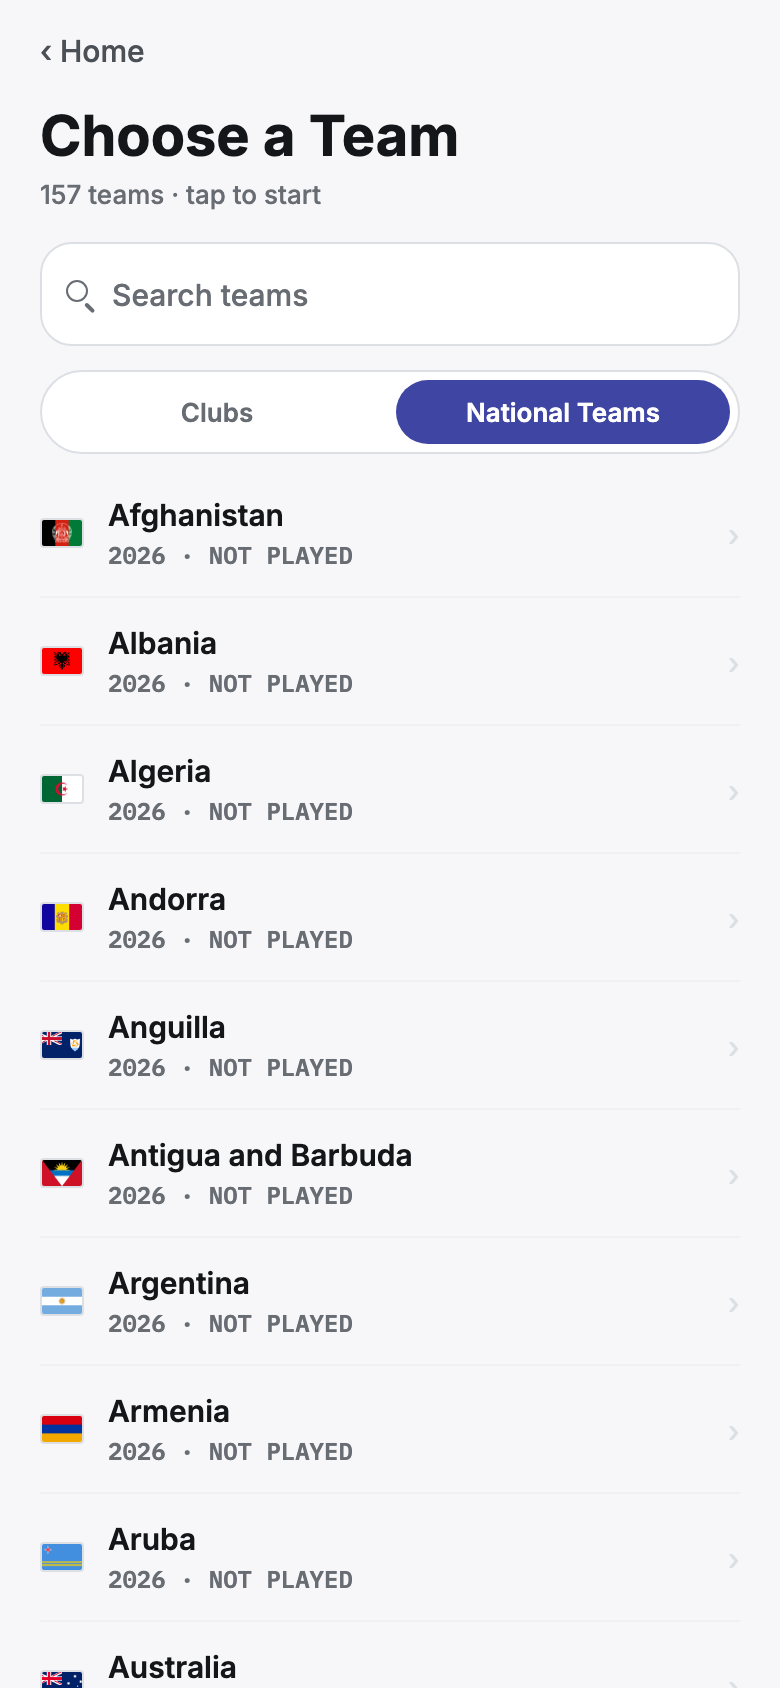
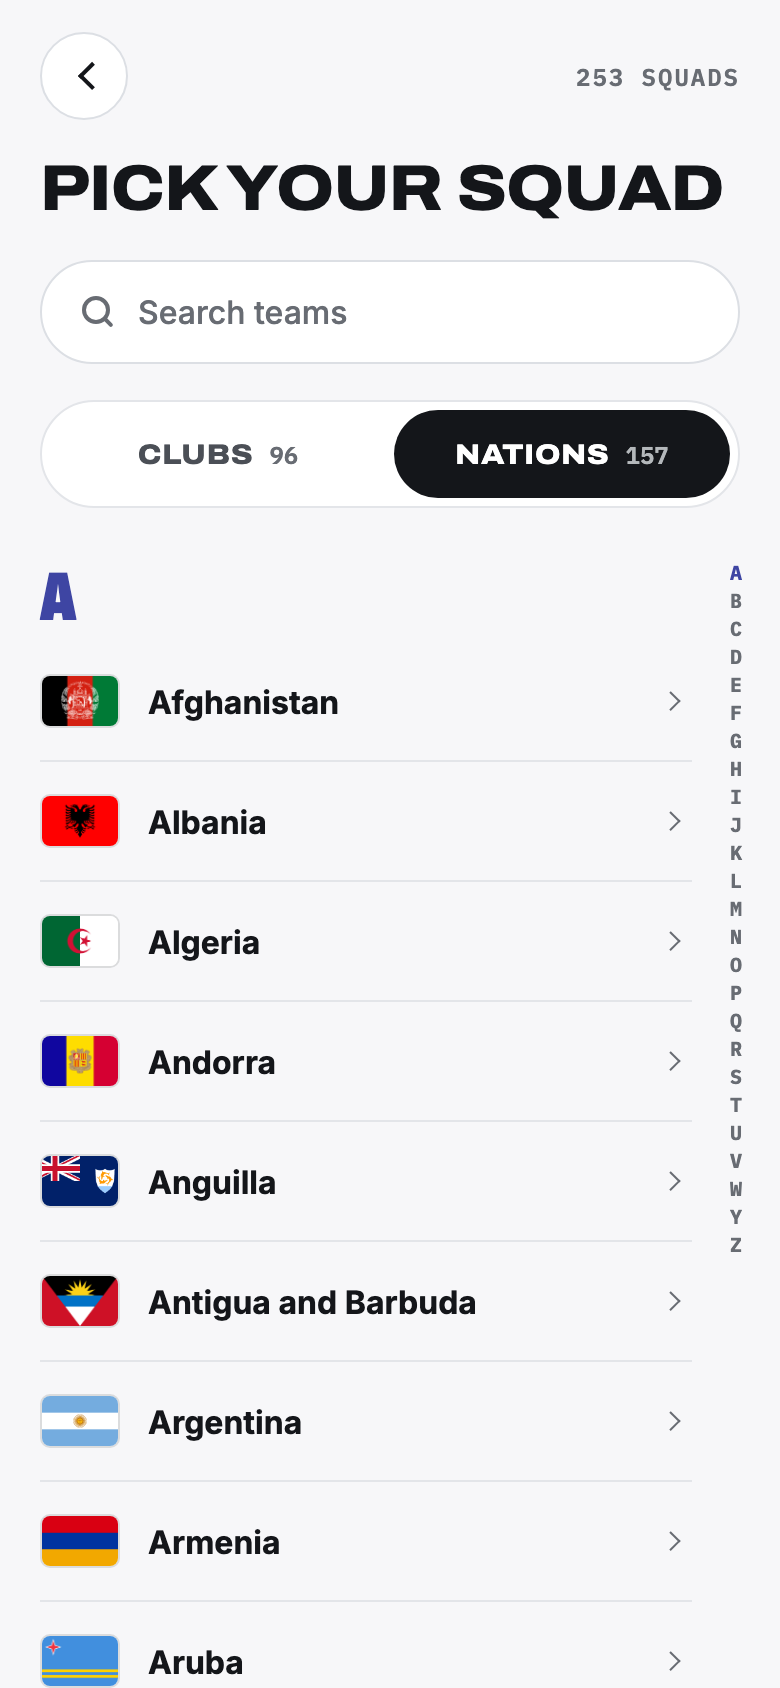
docs(picker): screens and docs for the redesigned team picker (#176)

diff --git a/theme/tokens.ts b/theme/tokens.ts
@@ -943,8 +943,9 @@ export const sizes = {
   // Plain colour dot for Home's "continue" card — a different, simpler
   // element than the team identity marker below.
   teamDot: 10,
-  // The small corner radius of a team's bands and flags (Study's banner strip,
-  // the in-round banner, a flag on an answer tile or a chip).
+  // The small corner radius of a team's bands and flags outside the picker
+  // (Study's banner strip, the in-round banner, and the inline flags on an
+  // answer tile, a chip, a player card and a Study row).
   teamMarkerRadius: 2,
   // The "banner" marker variant used mid-round (see TeamMarker's `variant`
   // prop): thinner and longer than the picker's marker, and always rendered

diff --git a/design/SCREENS.md b/design/SCREENS.md
@@ -92,45 +92,54 @@ deliberate constraint is distinguishable from an accident.
 Nine routes (the results route renders two distinct states, ordinary and
 flawless — see below). Route, file, and what it does.
 
-| #   | Route                             | File                                     | Purpose                                                                                                                                                                                                                                                                                                             |
-| --- | --------------------------------- | ---------------------------------------- | ------------------------------------------------------------------------------------------------------------------------------------------------------------------------------------------------------------------------------------------------------------------------------------------------------------------- |
-| 1   | `/`                               | `app/index.tsx`                          | Home. Centred, stacked wordmark lockup as the headline, continue-card for the last played team, Start Training. A gear at the top right opens Settings; Home has no About link, language chip or theme toggle.                                                                                                      |
-| 2   | `/about`                          | `app/about.tsx`                          | About. Legal/attribution copy, data and image credits, with a Licences row that opens the Licences page, and the privacy section (photos, usage statistics, updates). No switches and no version line: both are on Settings.                                                                                        |
-| 3   | `/team-picker`                    | `app/team-picker.tsx`                    | Team picker, segmented into Clubs and National Teams. Each row shows a mono sub-line — `LEVEL n · BEST n/10` or `NOT PLAYED`, green once cleared.                                                                                                                                                                   |
-| 4   | `/team/[squadId]/difficulty`      | `app/team/[squadId]/difficulty.tsx`      | The difficulty ladder in level order: the focused level expanded into a card with its description and a Play button, the other levels compact (locked ones stating their unlock condition), and Study, an outline button until level 1 is cleared and a text link after.                                            |
-| 5   | `/team/[squadId]/study`           | `app/team/[squadId]/study.tsx`           | Browsable squad: back, Hide names and a cards/list toggle; the team's banner, "Squad" and a count; position filters with counts; every player in shirt-number order as photo cards or a list. Hide names covers each name. Photo credits end the list.                                                              |
-| 6   | `/play/[squadId]/[level]`         | `app/play/[squadId]/[level]/index.tsx`   | A question. The photo (or the team's colours) fills the top; the shirt number with the escuadra corner, the slot chips that spell out the player, the prompt, a grid of answers and the footer sit in the thumb zone. A right answer moves on by itself; a miss waits.                                              |
-| 7   | `/play/[squadId]/[level]/results` | `app/play/[squadId]/[level]/results.tsx` | The round's result: close (a different team), the team and level, share; the score with the escuadra corner, the tier's title and verdict, the round strip; the missed players as snapping photo cards, or a 10/10's ten in circles; the actions; the share sheet.                                                  |
-| 8   | `/settings`                       | `app/settings.tsx`                       | Settings. Back and title, then Play (Language row opening the language sheet, Appearance as Match phone / Dark / Light, Vibration), Privacy (the usage-statistics switch), Support (Rate), Coming next (Exam mode, dashed) and About (About Escuadra, Privacy, Licences: each opens a page), over the version line. |
-| 9   | `/licences`                       | `app/licences.tsx`                       | Licences, opened from Settings or from About's credits. Back and title, a note that the texts stay in English, then the country names' Unicode notice (open), the fonts, and every bundled package, each a tap from its full text.                                                                                  |
+| #   | Route                             | File                                     | Purpose                                                                                                                                                                                                                                                                                                                                                                                                                                                                 |
+| --- | --------------------------------- | ---------------------------------------- | ----------------------------------------------------------------------------------------------------------------------------------------------------------------------------------------------------------------------------------------------------------------------------------------------------------------------------------------------------------------------------------------------------------------------------------------------------------------------- |
+| 1   | `/`                               | `app/index.tsx`                          | Home. Centred, stacked wordmark lockup as the headline, continue-card for the last played team, Start Training. A gear at the top right opens Settings; Home has no About link, language chip or theme toggle.                                                                                                                                                                                                                                                          |
+| 2   | `/about`                          | `app/about.tsx`                          | About. Legal/attribution copy, data and image credits, with a Licences row that opens the Licences page, and the privacy section (photos, usage statistics, updates). No switches and no version line: both are on Settings.                                                                                                                                                                                                                                            |
+| 3   | `/team-picker`                    | `app/team-picker.tsx`                    | Team picker, one scrolling page: a round back button and the squad count, `PICK YOUR SQUAD`, a search field, Clubs / Nations tabs with their counts, and league pills on Clubs. Clubs are a plain A–Z list under a mono caption (`ALL CLUBS · 96`); Nations are grouped under big letter headings, with a letter rail on the right edge. A row is the marker, the name, and either `LEVEL n` over the best score (`7/10`, green at 10/10) or a chevron when not played. |
+| 4   | `/team/[squadId]/difficulty`      | `app/team/[squadId]/difficulty.tsx`      | The difficulty ladder in level order: the focused level expanded into a card with its description and a Play button, the other levels compact (locked ones stating their unlock condition), and Study, an outline button until level 1 is cleared and a text link after.                                                                                                                                                                                                |
+| 5   | `/team/[squadId]/study`           | `app/team/[squadId]/study.tsx`           | Browsable squad: back, Hide names and a cards/list toggle; the team's banner, "Squad" and a count; position filters with counts; every player in shirt-number order as photo cards or a list. Hide names covers each name. Photo credits end the list.                                                                                                                                                                                                                  |
+| 6   | `/play/[squadId]/[level]`         | `app/play/[squadId]/[level]/index.tsx`   | A question. The photo (or the team's colours) fills the top; the shirt number with the escuadra corner, the slot chips that spell out the player, the prompt, a grid of answers and the footer sit in the thumb zone. A right answer moves on by itself; a miss waits.                                                                                                                                                                                                  |
+| 7   | `/play/[squadId]/[level]/results` | `app/play/[squadId]/[level]/results.tsx` | The round's result: close (a different team), the team and level, share; the score with the escuadra corner, the tier's title and verdict, the round strip; the missed players as snapping photo cards, or a 10/10's ten in circles; the actions; the share sheet.                                                                                                                                                                                                      |
+| 8   | `/settings`                       | `app/settings.tsx`                       | Settings. Back and title, then Play (Language row opening the language sheet, Appearance as Match phone / Dark / Light, Vibration), Privacy (the usage-statistics switch), Support (Rate), Coming next (Exam mode, dashed) and About (About Escuadra, Privacy, Licences: each opens a page), over the version line.                                                                                                                                                     |
+| 9   | `/licences`                       | `app/licences.tsx`                       | Licences, opened from Settings or from About's credits. Back and title, a note that the texts stay in English, then the country names' Unicode notice (open), the fonts, and every bundled package, each a tap from its full text.                                                                                                                                                                                                                                      |
 
 ## Captures
 
-| File                                     | Screen                               |
-| ---------------------------------------- | ------------------------------------ |
-| `screens/01-home.png`                    | Home                                 |
-| `screens/01a-about.png`                  | About                                |
-| `screens/01c-settings.png`               | Settings                             |
-| `screens/01c-settings-end.png`           | Settings, scrolled to the end        |
-| `screens/01c-settings-language.png`      | Settings — language sheet            |
-| `screens/01d-licences.png`               | Licences                             |
-| `screens/02-team-picker-clubs.png`       | Team picker, Clubs                   |
-| `screens/03-team-picker-nations.png`     | Team picker, National Teams          |
-| `screens/04-difficulty.png`              | Difficulty ladder                    |
-| `screens/05-study.png`                   | Study, cards                         |
-| `screens/05-study-list.png`              | Study, list                          |
-| `screens/05-study-hidden.png`            | Study, cards with Hide names on      |
-| `screens/06-question-l1.png`             | Question, level 1                    |
-| `screens/07-question-l2.png`             | Question, level 2                    |
-| `screens/08-question-l3.png`             | Question, level 3 — club part        |
-| `screens/08-question-l3-nationality.png` | Question, level 3 — nationality part |
-| `screens/09-results.png`                 | Results — failed round               |
-| `screens/09-results-passed.png`          | Results — passed, 9/10               |
-| `screens/09-results-flawless.png`        | Results — a la escuadra, 10/10       |
-| `screens/09-results-share.png`           | Results — share sheet, Image         |
-| `screens/09-results-share-text.png`      | Results — share sheet, Text          |
-| `screens/09-results-share-flawless.png`  | Results — share sheet, a la escuadra |
-| `screens/09-results-credits.png`         | Results — photo credits sheet        |
+| File                                       | Screen                               |
+| ------------------------------------------ | ------------------------------------ |
+| `screens/01-home.png`                      | Home                                 |
+| `screens/01a-about.png`                    | About                                |
+| `screens/01c-settings.png`                 | Settings                             |
+| `screens/01c-settings-end.png`             | Settings, scrolled to the end        |
+| `screens/01c-settings-language.png`        | Settings — language sheet            |
+| `screens/01d-licences.png`                 | Licences                             |
+| `screens/02-team-picker-clubs.png`         | Team picker, Clubs                   |
+| `screens/03-team-picker-nations.png`       | Team picker, Nations                 |
+| `screens/03b-team-picker-nations-jump.png` | Team picker, Nations, jumped to S    |
+| `screens/04-difficulty.png`                | Difficulty ladder                    |
+| `screens/05-study.png`                     | Study, cards                         |
+| `screens/05-study-list.png`                | Study, list                          |
+| `screens/05-study-hidden.png`              | Study, cards with Hide names on      |
+| `screens/06-question-l1.png`               | Question, level 1                    |
+| `screens/07-question-l2.png`               | Question, level 2                    |
+| `screens/08-question-l3.png`               | Question, level 3 — club part        |
+| `screens/08-question-l3-nationality.png`   | Question, level 3 — nationality part |
+| `screens/09-results.png`                   | Results — failed round               |
+| `screens/09-results-passed.png`            | Results — passed, 9/10               |
+| `screens/09-results-flawless.png`          | Results — a la escuadra, 10/10       |
+| `screens/09-results-share.png`             | Results — share sheet, Image         |
+| `screens/09-results-share-text.png`        | Results — share sheet, Text          |
+| `screens/09-results-share-flawless.png`    | Results — share sheet, a la escuadra |
+| `screens/09-results-credits.png`           | Results — photo credits sheet        |
+
+The three team picker captures are a fresh install, so no row has a score: every row
+ends in a chevron. `02-team-picker-clubs.png` is Clubs with All picked: the caption
+`ALL CLUBS · 96` over banded markers, A to Z by name. `03-team-picker-nations.png` is
+the Nations tab at the top: the `A` heading in the accent colour, flags at their true
+shape, and the rail beside the first heading, every letter shown and `A` accented.
+`03b-team-picker-nations-jump.png` is a tap on the rail's `S`, with `S` at the top and
+accented in both the heading and the rail, which has ridden up to the screen's centre.
 
 Question captures carry real Commons photos, each credited on screen by the
 line under the footer; a capture waits for its images to load.

diff --git a/docs/superpowers/specs/2026-10-22-team-picker-design.md b/docs/superpowers/specs/2026-10-22-team-picker-design.md
@@ -29,9 +29,11 @@ One column that scrolls as a whole, as on the canvas:
      "ALL CLUBS · 96"), then the clubs as a plain list sorted by displayed name, with no letter
      headings.
    - **Nations:** grouped A–Z. Each group opens with its letter in Archivo ExtraCondensed
-     Black, 34 pt. A **letter rail** is pinned to the right edge, centred vertically, and
-     shows the letters that have groups. Tapping or dragging over it jumps to that letter's
-     group. The current letter, of the group at the top of the scroll, is `accentLine` in
+     Black, 34 pt. A **letter rail** sits at the right edge and shows the letters that have
+     groups. It starts beside the first letter heading, never over the tabs, and rides up
+     with the list until it is centred vertically, where it stays. It holds still while a
+     finger is on it and catches up on release. Tapping or dragging over it jumps to that
+     letter's group. The current letter, of the group at the top of the scroll, is `accentLine` in
      both the rail and its heading; the others are `textMuted` in the rail and `textPrimary`
      as headings.
    - **Empty state:** unchanged ("No teams found", plus "No results for …" when searching).
@@ -69,7 +71,9 @@ too: a score is green only at 10/10.
 4. **The rail is hidden from screen readers.** Each heading is a header, so VoiceOver's
    rotor and TalkBack's heading navigation already jump by letter, and a column of 10 pt
    letters makes a poor control to swipe through. The rail's touch target is its full
-   column, 44 pt wide, and a drag maps `y` to a letter.
+   column, 44 pt wide, and a drag maps `y` to a letter. The letters take no touches, so the
+   rail is always the target and its top edge is `pageY - locationY` on grant. The letters
+   scale with the OS text size up to `fontScaleCap.rail`, 1.1, so they keep their pitch.
 5. **The tabs and pills are new components.** `KindTabs` replaces `SegmentedControl`, whose
    only user was the picker, so it is deleted. `PickerPill` sits beside `FilterPill`, which
    Study keeps with its own look.
@@ -81,6 +85,13 @@ too: a score is green only at 10/10.
    (`sizes.pickerMarker` 40 × 27 with a 5 pt radius, `sizes.pickerRow` 60, `sizes.rail` with
    its width and letter height), and `Flag` and `TeamMarker` gain the `picker` size. The flag
    PNGs are 160 px wide, so 40 pt at @3x (120 px) still has headroom.
+
+## Deviations accepted in review
+
+- "/10" stays `textMuted` even at 10/10: only the score turns `successText`.
+- Pills are 44 pt touch targets around a 40 pt drawn pill.
+- `SegmentedControl` is deleted, and so is `TeamMarker`'s `default` variant: `variant` is
+  required, `banner` or `picker`.
 
 ## Text
 

diff --git a/.claude/rules/team-identity.md b/.claude/rules/team-identity.md
@@ -42,15 +42,15 @@ assign a team's colour; it must be the team's actual real colour.
 ## The in-round banner
 
 **In-round team marker is always a vertical banner, regardless of the
-squad's real flag orientation.** The team picker (`TeamRow`) renders a
+squad's real flag orientation.** The team picker (`TeamRow`, through `TeamMarker`'s `variant="picker"`) renders a
 squad's marker at its true `orientation` — Spain's flag is genuinely
 horizontal stripes there. But mid-round, on the question screen's header,
 the marker always renders as thin, tall, vertical bands, using `bands` (and
 `weights`) as the colour sequence and ignoring `marker.orientation`
 entirely: Spain reads red/yellow/red left-to-right, not stacked. This is
 `TeamMarker`'s `variant="banner"` (`components/TeamMarker.tsx`,
-`sizes.teamMarkerBanner` in `theme/tokens.ts`) — always pass it on the
-question screen, never the bare `marker` prop.
+`sizes.teamMarkerBanner` in `theme/tokens.ts`). `variant` is required, so the question
+screen must name it: `banner` there, `picker` in the picker.
 
 ## Flags (guardrail 2's carve-out)
 
